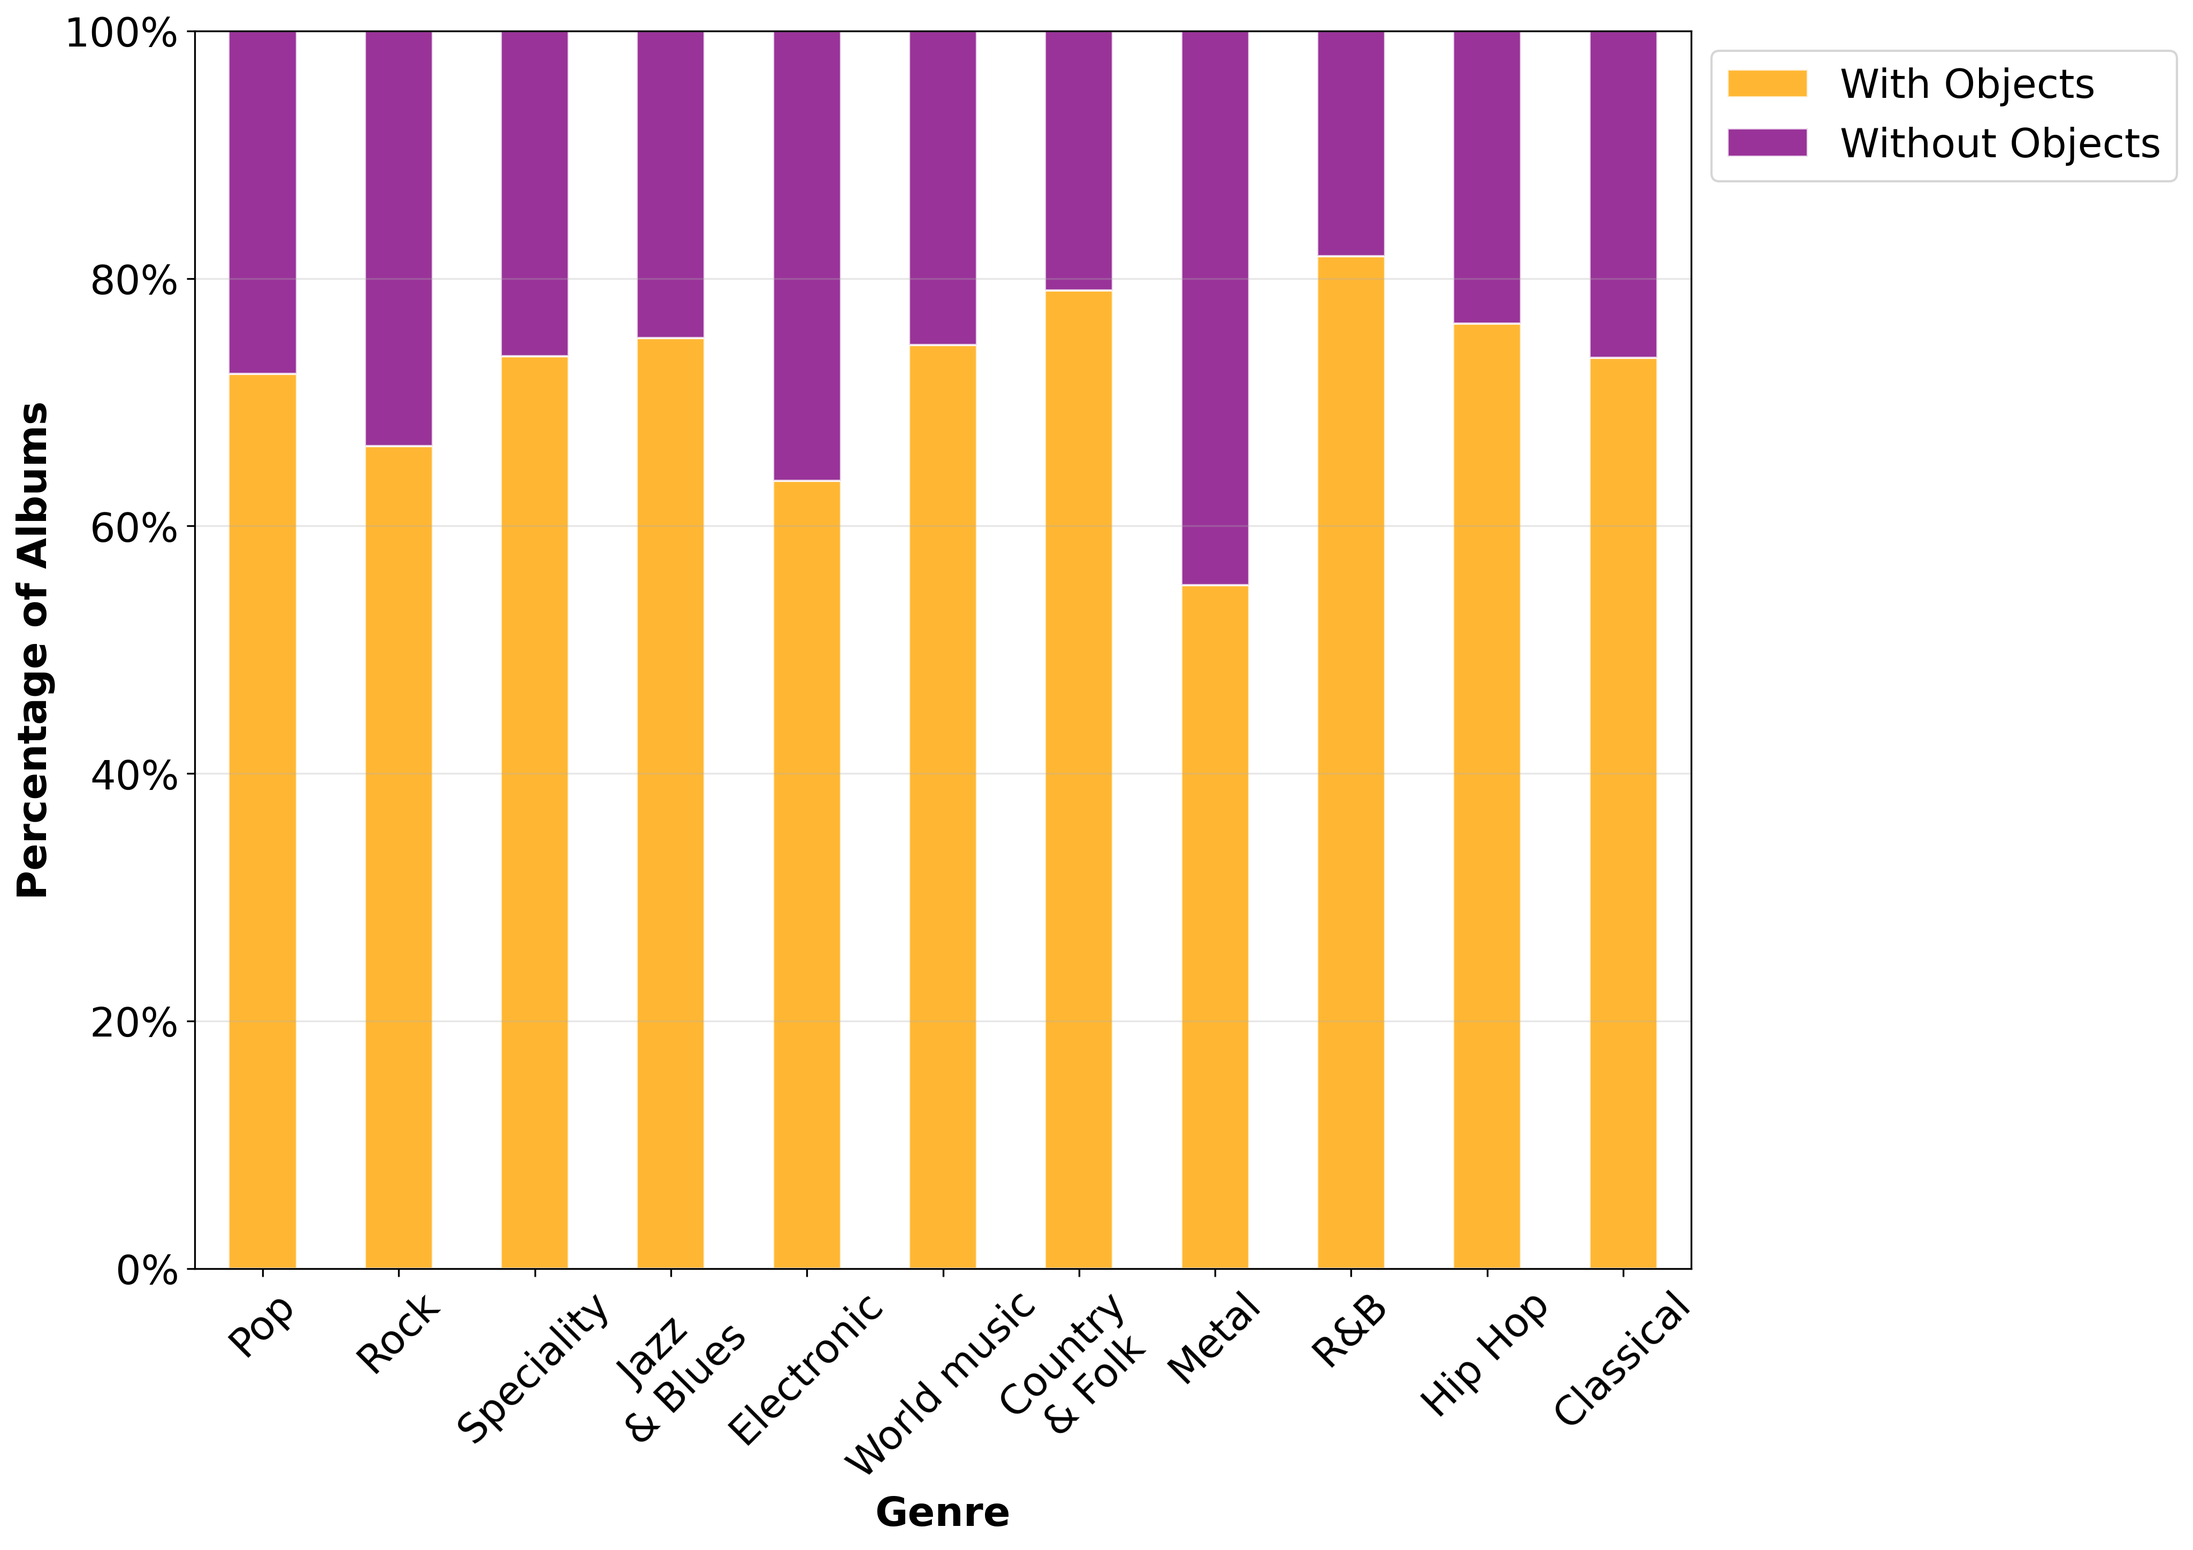
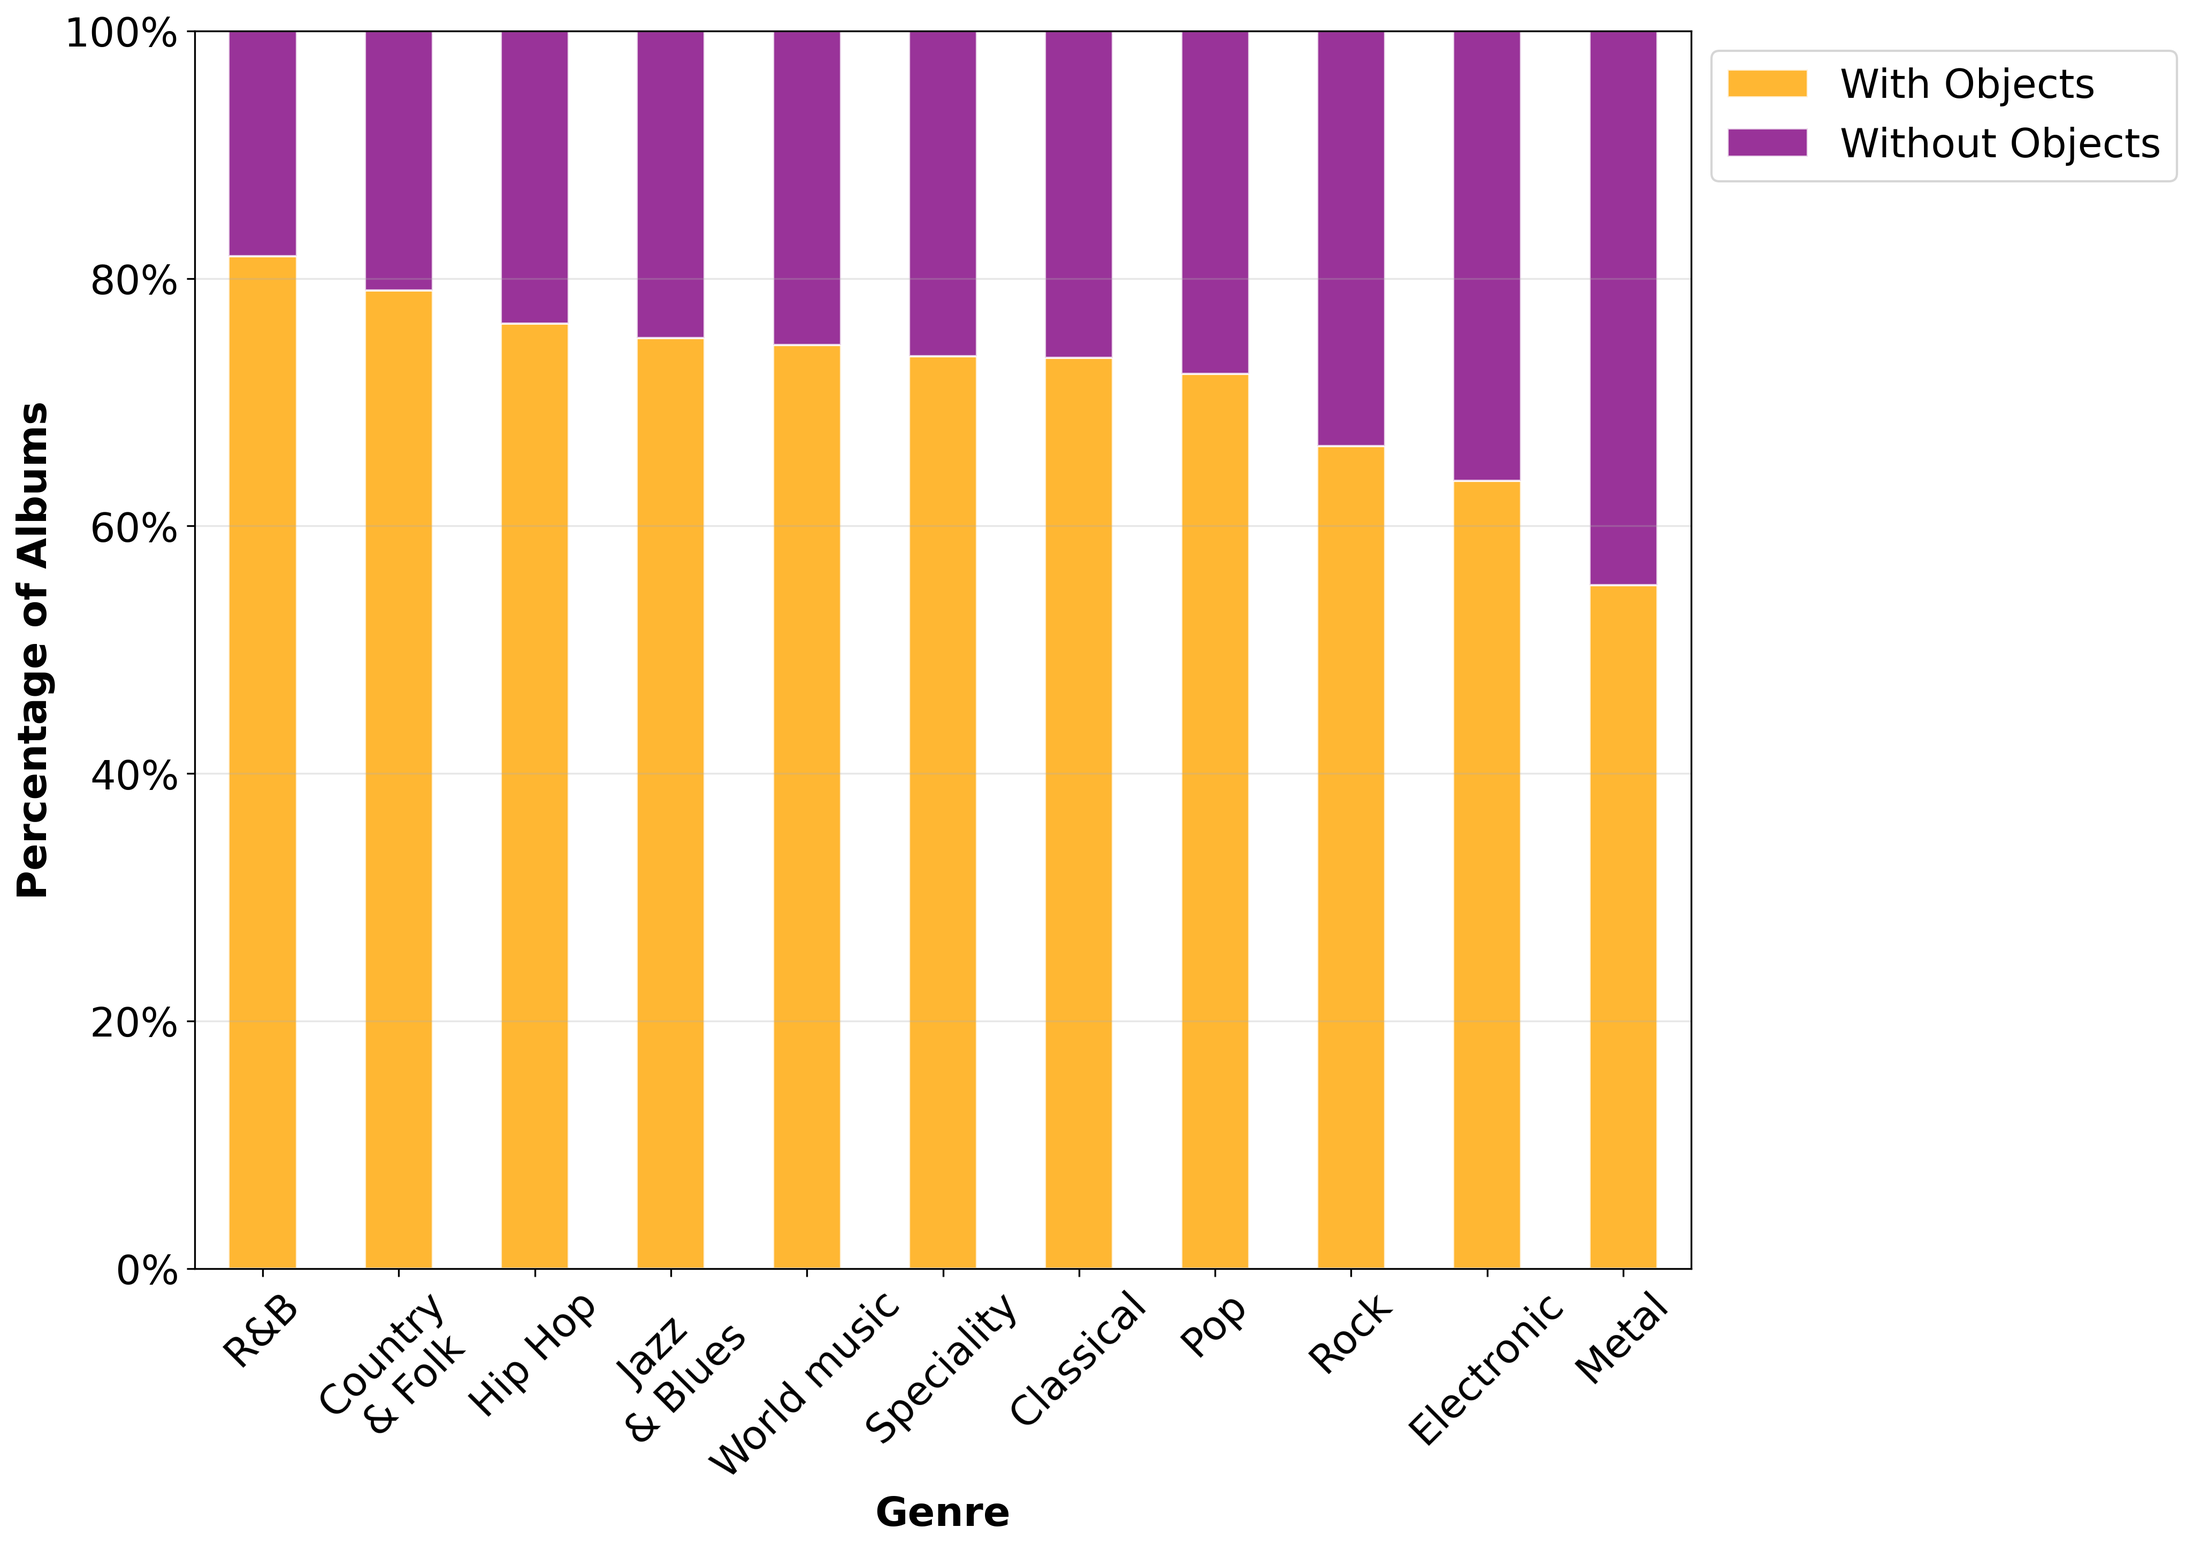
removed gemini api key

diff --git a/test/vis_test.py b/test/vis_test.py
@@ -4,7 +4,7 @@ import numpy as np
 import matplotlib.image as mpimg
 import os
 
-FONT_SIZE = 18
+FONT_SIZE = 25
 
 def plot_bar_chart(df, c_name, y_name):
     # Create main figure for the bar chart
@@ -112,120 +112,70 @@ def plot_test_entropy_complexity(df):
     plt.savefig('entropy_complexity_scatter.png', dpi=300, bbox_inches='tight')
     plt.show()
 
-
-# def plot_entropy_complexity(df):
-#     """Plot 3: Total mean for each genre with non-overlapping labels"""
-#     df_genres = process_genres(df.copy())
+def plot_test_entropy_complexity_slide(df):
+    """Plot entropy-complexity scatter plot for test metrics with row index+1 as labels"""
+    plt.rcParams['font.size'] = FONT_SIZE
+    fig, ax = plt.subplots(figsize=(12, 10))
     
-#     # Calculate overall means, std, and count by genre for SEM calculation
-#     genre_stats = df_genres.groupby('genre')[['permutation_entropy', 'statistical_complexity']].agg(['mean', 'std', 'count']).reset_index()
-#     genre_stats.columns = ['genre', 'entropy_mean', 'entropy_std', 'entropy_count', 'complexity_mean', 'complexity_std', 'complexity_count']
+    # Create a color palette
+    # colors = plt.cm.viridis(np.linspace(0, 1, len(df)))
     
-#     # Filter genres with sufficient data
-#     min_count = 50
-#     genre_stats = genre_stats[genre_stats['entropy_count'] >= min_count]
+    # Plot points
+    scatter = ax.scatter(
+        df['permutation_entropy'], 
+        df['statistical_complexity'],
+        s=100,  # marker size
+        alpha=0.8,
+        edgecolors='white',
+        linewidths=0.5
+    )
     
-#     # Apply custom genre ordering
-#     genre_stats = order_genres_custom(genre_stats)
+    # Add labels (row index + 1)
+    for i, row in df.iterrows():
+        label = str(i + 1)  # Row index + 1
+        ax.annotate(
+            label,
+            (row['permutation_entropy'], row['statistical_complexity']),
+            xytext=(7, 0),  # Small offset
+            textcoords='offset points',
+            fontweight='bold',
+            ha='left',
+            va='center'
+        )
     
-#     # Calculate SEM
-#     genre_stats['entropy_sem'] = genre_stats['entropy_std'] / np.sqrt(genre_stats['entropy_count'])
-#     genre_stats['complexity_sem'] = genre_stats['complexity_std'] / np.sqrt(genre_stats['complexity_count'])
+    # # Add image names as hover text (this will only work in interactive mode)
+    # for i, row in df.iterrows():
+    #     ax.annotate(
+    #         row['image_name'],
+    #         (row['permutation_entropy'], row['statistical_complexity']),
+    #         xytext=(0, 0),
+    #         textcoords='offset points',
+    #         bbox=dict(boxstyle='round,pad=0.5', fc='yellow', alpha=0.3),
+    #         arrowprops=dict(arrowstyle='->', connectionstyle='arc3,rad=0'),
+    #         visible=False,
+    #         fontweight='bold'
+    #     )
     
-#     fig, ax = plt.subplots(figsize=(16, 12))  # Increased figure size
+    # Styling
+    ax.set_xlabel('Permutation Entropy', fontweight='bold')
+    ax.set_ylabel('Statistical Complexity', fontweight='bold')
+    ax.set_ylim(-0.049, 0.3) 
+    ax.set_xlim(-0.12, 1.12)
     
-#     # Sort by custom genre order instead of count
-#     genre_stats = genre_stats.sort_values(by='genre_order')
-    
-#     # Create a consistent color palette based on the ordered genres
-#     colors = plt.cm.tab20(np.linspace(0, 1, len(genre_stats)))
-    
-#     # Plot with error bars
-#     scatter_points = []
-#     for i, (_, row) in enumerate(genre_stats.iterrows()):
-#         point = ax.errorbar(row['entropy_mean'], 
-#                            row['complexity_mean'],
-#                            xerr=row['entropy_sem'],
-#                            yerr=row['complexity_sem'],
-#                            fmt='o', 
-#                            markersize=12,
-#                            capsize=2,
-#                            capthick=0.5,
-#                            elinewidth=0.5,
-#                            alpha=0.8,
-#                            color=colors[i],
-#                            markeredgecolor='white',
-#                            markeredgewidth=0.5)
-#         scatter_points.append(point)
-    
-#     # Create text annotations for adjustText
-#     texts = []
-#     for i, (_, row) in enumerate(genre_stats.iterrows()):
-#         # Vary annotation positions to avoid overlap
-#         angle = i * (360 / len(genre_stats)) 
-#         if(row['genre'] == 'R&B'): # Distribute around circle
-#             angle = 290
-#         elif(row['genre'] == 'Pop'):
-#             angle = 120
-#         elif(row['genre'] == 'Speciality'):
-#             angle = 340
-#         elif(row['genre'] == 'Jazz & Blues'):
-#             angle = 120
-#         elif(row['genre'] == 'World music'):
-#             angle = 350
-#         elif(row['genre'] == 'Country & Folk'):
-#             angle = 290
-#         elif(row['genre'] == 'Rock'):
-#             angle = 250
-#         elif(row['genre'] == 'Classical'):
-#             angle = 120
-
-#         offset_x = 40 * np.cos(np.radians(angle))
-#         offset_y = 40 * np.sin(np.radians(angle))
-        
-#         text = ax.annotate(row['genre'], 
-#                           (row['entropy_mean'], row['complexity_mean']),
-#                           xytext=(offset_x, offset_y), textcoords='offset points',
-#                           fontsize=10, fontweight='bold',
-#                           ha='center', va='center',
-#                           arrowprops=dict(arrowstyle='-', color=colors[i], alpha=0.6, lw=0.5))
-#         texts.append(text)
-    
-#     # Use adjustText to prevent overlapping labels
-#     # adjust_text(texts, 
-#     #             arrowprops=dict(arrowstyle='-', color='gray', alpha=0.6, lw=1, 
-#     #                            shrinkA=5, shrinkB=5),  # Prevent arrows from striking through text
-#     #             expand_points=(10, 10),  # Expand around points
-#     #             expand_text=(1.2, 1.2),   # Expand around text
-#     #             force_points=10,         # Force away from points
-#     #             force_text=0.8,           # Force text away from each other
-#     #             ax=ax)
+    # Enhanced styling - transparent background
+    ax.set_facecolor('none')  # Transparent plot area
+    fig.patch.set_facecolor('none')  # Transparent figure background
+    ax.grid(True, alpha=0.4, linestyle='-', linewidth=0.5,color='#000000')
     
     
-#     ax.set_xlabel('Permutation Entropy', fontweight='bold', fontsize=14)
-#     ax.set_ylabel('Statistical Complexity', fontweight='bold', fontsize=14)
-#     ax.set_title('Musical Genre in Entropy-Complexity Space\n(Mean Values ± SEM)', 
-#                 fontweight='bold', fontsize=16, pad=25)
-    
-#     ax.set_ylim(0.1125, 0.14)
-#     ax.set_xlim(0.82, 0.87)
-    
-#     # Enhanced styling
-#     ax.set_facecolor('#fafafa')
-#     ax.grid(True, alpha=0.4, linestyle='-', linewidth=0.5)
-    
-#     # Add subtle border
-#     for spine in ax.spines.values():
-#         spine.set_edgecolor('#cccccc')
-#         spine.set_linewidth(1.5)
-    
-#     plt.tight_layout()
-#     plt.savefig('../result/entr_compl_plots/entropy_complexity_genre_means.png', dpi=300, bbox_inches='tight')
-#     plt.show()
+    plt.tight_layout()
+    plt.savefig('entropy_complexity_scatter_slide.png', dpi=300, bbox_inches='tight', 
+                facecolor='none', edgecolor='none', transparent=True)
+    plt.show()
 
 
 if __name__ == "__main__":
-    df = pd.read_csv('./test_metrics_results.csv')
-    plot_bar_chart(df, 'mdl_complexity', 'MDL Complexity')
+    df = pd.read_csv('./test_metrics_results_slide.csv')
+    # plot_bar_chart(df, 'mdl_complexity', 'MDL Complexity')
     # plot_bar_chart(df, 'zip_compression_ratio', 'ZIP Compression')
-    # plot_test_entropy_complexity(df)
+    plot_test_entropy_complexity_slide(df)

diff --git a/album_analisys/vis_mdlc_complexity.py b/album_analisys/vis_mdlc_complexity.py
@@ -12,7 +12,7 @@ warnings.filterwarnings('ignore')
 
 
 MIN_ALBUMS_COUNT = 50
-FONT_SIZE = 18
+FONT_SIZE = 25
 
 def create_output_directory():
     """Create the output directory for plots"""
@@ -321,6 +321,8 @@ def plot_stacked_album_count_by_year(df, output_dir):
     
     # Create the stacked plot
     fig, ax = plt.subplots(figsize=(18, 10))
+    fig.patch.set_facecolor('none')  # Transparent figure background
+    ax.set_facecolor('none')  # Transparent plot area
     
     # Define colors for each genre
     colors = plt.cm.tab20(np.linspace(0, 1, len(top_genres)))
@@ -332,15 +334,18 @@ def plot_stacked_album_count_by_year(df, output_dir):
         if genre in pivot_data.columns:
             values = pivot_data[genre].values
             ax.bar(pivot_data.index, values, bottom=bottom, 
-                  label=genre, color=colors[i], alpha=0.8, edgecolor='white', linewidth=0.5, width=0.8)
+                  label=genre, color=colors[i], alpha=0.8, linewidth=0.5, width=0.8)
             bottom += values
     
     ax.set_xlabel('Year', fontweight='bold', fontsize=FONT_SIZE+4)
     ax.set_ylabel('Number of Albums', fontweight='bold', fontsize=FONT_SIZE+4)
     ax.grid(True, alpha=0.3, axis='y')
     
-    # Create legend outside the plot
-    ax.legend(bbox_to_anchor=(1, 1), loc='upper left')
+    # Create horizontal legend above the plot with transparent background
+    legend = ax.legend(bbox_to_anchor=(0.5, 1), loc='lower center', 
+                      fontsize=FONT_SIZE-6, ncol=6)  # ncol=4 for 4 columns
+    legend.get_frame().set_facecolor('none')  # Transparent legend background
+    legend.get_frame().set_edgecolor('none')  # Remove legend border
     
     # Format x-axis with appropriate year ticks
     year_range = pivot_data.index.max() - pivot_data.index.min()
@@ -356,7 +361,8 @@ def plot_stacked_album_count_by_year(df, output_dir):
     
     
     plt.tight_layout()
-    plt.savefig(f'{output_dir}/stacked_album_count_by_year.png', dpi=300, bbox_inches='tight')
+    plt.savefig(f'{output_dir}/stacked_album_count_by_year_slide.png', dpi=300, bbox_inches='tight',
+                facecolor='none', edgecolor='none', transparent=True)
     plt.show()
     
     print("Saved stacked album count by year plot")
@@ -586,11 +592,11 @@ def main():
     yearly_stacked_data = plot_stacked_album_count_by_year(df, output_dir)
     
     # print("\n" + "="*50)
-    plot_dataset_genre_distribution(df, output_dir)
+    # plot_dataset_genre_distribution(df, output_dir)
 
-    #complexity
+    # #complexity
   
-    dynamic_temporal_data, dynamic_temporal_stats = plot_quantile_box_comparison_dynamic(df_no_split, output_dir, min_albums=3000)
+    # dynamic_temporal_data, dynamic_temporal_stats = plot_quantile_box_comparison_dynamic(df_no_split, output_dir, min_albums=3000)
 
     # # #     print("\n" + "="*50)
     # box_data = plot_entropy_distribution_box(df, output_dir)

diff --git a/album_analisys/yolo/vis_yolo.py b/album_analisys/yolo/vis_yolo.py
@@ -501,14 +501,18 @@ def plot_albums_with_objects_by_genre(df, output_dir, top_genres=11):
     if 'Without Objects' not in genre_object_stats.columns:
         genre_object_stats['Without Objects'] = 0
     
-    # Calculate total albums per genre and sort by total
+    # Calculate total albums per genre
     genre_object_stats['Total'] = genre_object_stats['With Objects'] + genre_object_stats['Without Objects']
-    genre_object_stats = genre_object_stats.sort_values('Total', ascending=False)
     
     # Calculate percentages
     genre_object_percent = genre_object_stats[['With Objects', 'Without Objects']].div(
         genre_object_stats['Total'], axis=0
     ) * 100
+    
+    # Sort by percentage of albums with objects (detection rate) in descending order
+    genre_object_percent = genre_object_percent.sort_values('With Objects', ascending=False)
+    # Reorder genre_object_stats to match the same order
+    genre_object_stats = genre_object_stats.reindex(genre_object_percent.index)
     
     # Create the stacked bar plot
     fig, ax = plt.subplots(figsize=(14, 10))

diff --git a/test/test_metrics.py b/test/test_metrics.py
@@ -21,8 +21,8 @@ sys.path.append('../album_analisys')
 from itertools import permutations
 
 # Path to test images CSV
-TEST_IMAGES_CSV = "test_images_paths.csv"
-OUTPUT_CSV = "test_metrics_results.csv"
+TEST_IMAGES_CSV = "slide_image_paths.csv"
+OUTPUT_CSV = "test_metrics_results_slide.csv"
 
 # --- Load functions from modules with problematic names ---
 
@@ -278,7 +278,5 @@ if __name__ == "__main__":
     print("\nSummary Statistics:")
     print(results_df.describe())
     
-    # Plot comparison
-    plot_metrics_comparison(results_df)
     
     print("\nDone!")

diff --git a/album_analisys/gemini_date.py b/album_analisys/gemini_date.py
@@ -8,7 +8,7 @@ import io
 import time
 from datetime import datetime
 
-GEMINI_API_KEY = "AIzaSyBMC8_LdcQy5fuQGgV8v1mm2rKpOVzC4Rk"
+GEMINI_API_KEY = "YOUR_GEMINI_API_KEY"
 
 # Configure the API key
 genai.configure(api_key=GEMINI_API_KEY)

diff --git a/album_analisys/gemini_genre.py b/album_analisys/gemini_genre.py
@@ -8,7 +8,7 @@ import io
 import time
 from datetime import datetime
 
-GEMINI_API_KEY = "AIzaSyBMC8_LdcQy5fuQGgV8v1mm2rKpOVzC4Rk"
+GEMINI_API_KEY = "YOUR_GEMINI_API_KEY"
 
 # Configure the API key
 genai.configure(api_key=GEMINI_API_KEY)

diff --git a/album_analisys/test_gemini_date_accuracy.py b/album_analisys/test_gemini_date_accuracy.py
@@ -8,7 +8,7 @@ import json
 import io
 import numpy as np
 
-GEMINI_API_KEY = "AIzaSyBMC8_LdcQy5fuQGgV8v1mm2rKpOVzC4Rk"
+GEMINI_API_KEY = "YOUR_GEMINI_API_KEY"
 
 # Configure the API key
 os.environ['GOOGLE_API_KEY'] = GEMINI_API_KEY

diff --git a/album_analisys/test_gemini_genre_accuracy_super.py b/album_analisys/test_gemini_genre_accuracy_super.py
@@ -6,7 +6,7 @@ import os
 import json
 import io
 
-GEMINI_API_KEY = "AIzaSyBMC8_LdcQy5fuQGgV8v1mm2rKpOVzC4Rk"
+GEMINI_API_KEY = "YOUR_GEMINI_API_KEY"
 
 # Configure the API key
 genai.configure(api_key=GEMINI_API_KEY)
